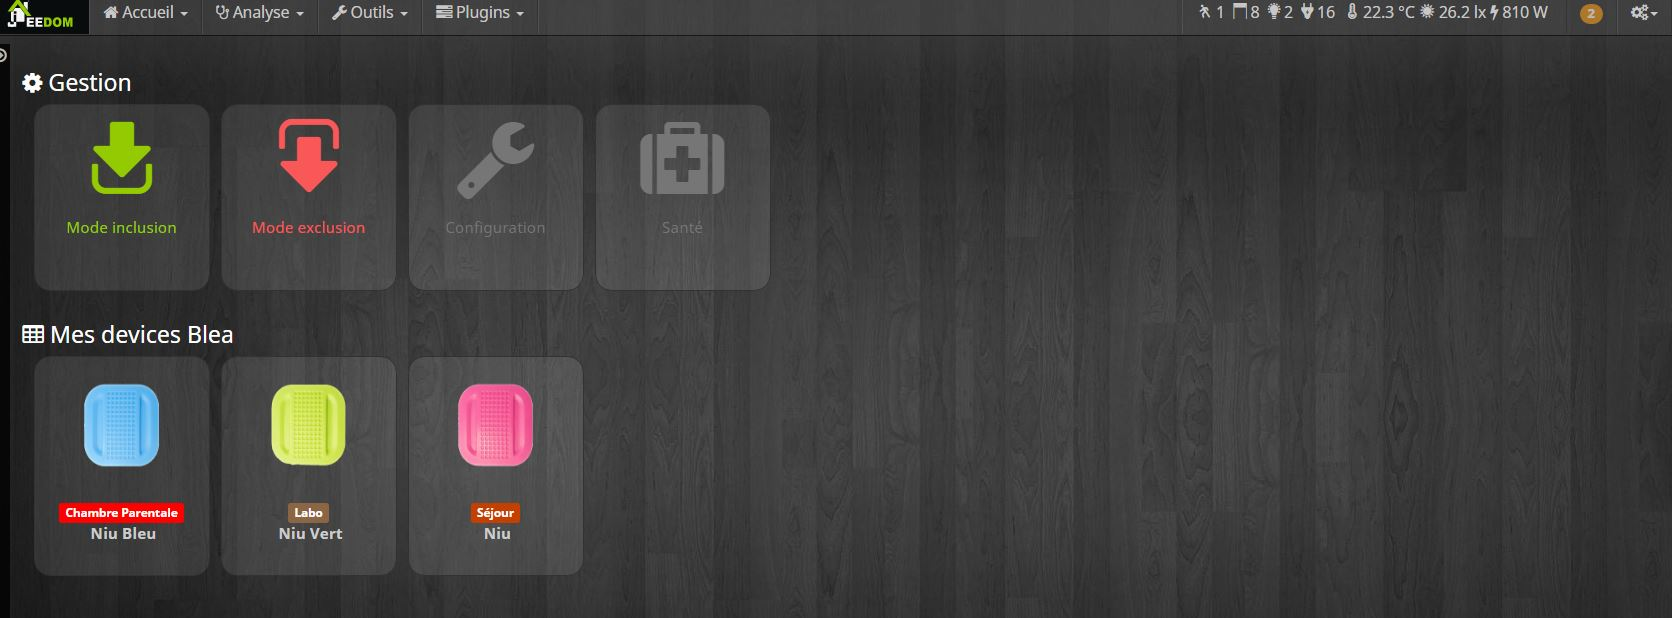
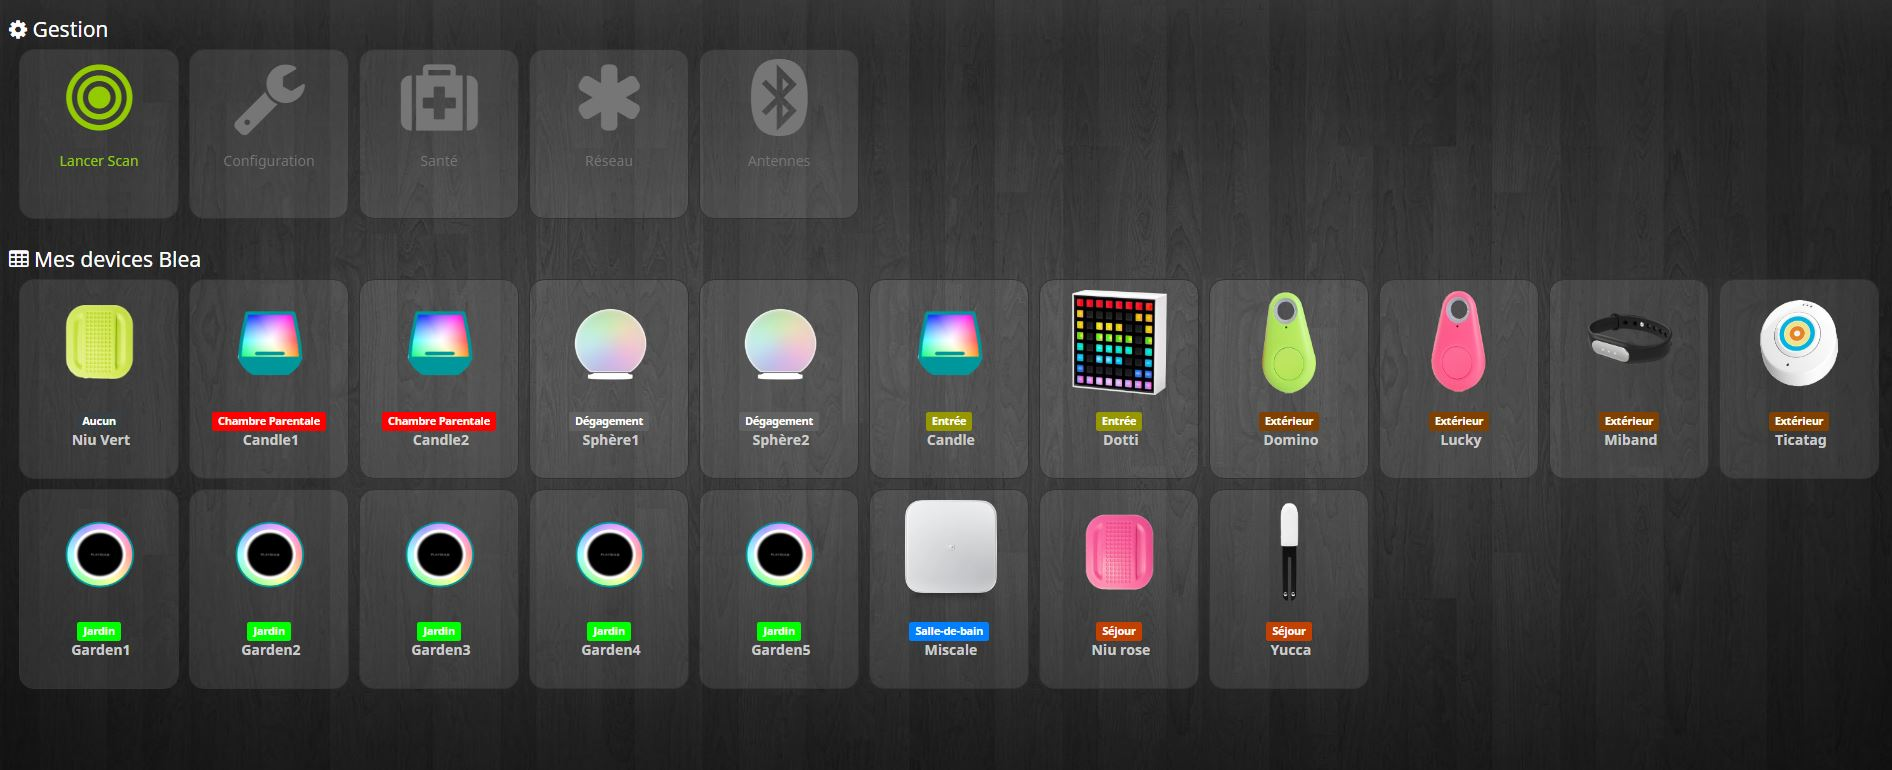
update and prepare stable

diff --git a/desktop/modal/blea.remote.php b/desktop/modal/blea.remote.php
@@ -26,10 +26,10 @@ sendVarToJS('plugin', $id);
 ?>
 <div id='div_bleaRemoteAlert' style="display: none;"></div>
 <div class="row row-overflow">
-	<div class="col-lg-3 col-md-4 col-sm-5 col-xs-5">
+	<div class="col-lg-2 col-md-3 col-sm-4 col-xs-4">
 		<div class="bs-sidebar">
 			<ul id="ul_eqLogic" class="nav nav-list bs-sidenav">
-				<a class="btn btn-default bleaRemoteAction" style="width : 100%;margin-top : 5px;margin-bottom: 5px;" data-action="add"><i class="fa fa-plus-circle"></i> {{Ajouter une Antenne Bluetooth}}</a>
+				<a class="btn btn-default bleaRemoteAction" style="width : 100%;margin-top : 5px;margin-bottom: 5px;" data-action="add"><i class="fa fa-plus-circle"></i> {{Ajouter Antenne}}</a>
 				<li class="filter" style="margin-bottom: 5px;"><input class="filter form-control input-sm" placeholder="{{Rechercher}}" style="width: 100%"/></li>
 				<?php
 foreach ($remotes as $remote) {
@@ -44,14 +44,36 @@ foreach ($remotes as $remote) {
 			</ul>
 		</div>
 	</div>
+	 <div class="col-lg-10 col-md-9 col-sm-8 col-xs-8 remoteThumbnailDisplay" style="border-left: solid 1px #EEE; padding-left: 25px;">
+<legend><i class="fa fa-table"></i>  {{Mes Antennes}}</legend>
 
-	<div class="col-lg-9 col-md-8 col-sm-7 col-xs-7 bleaRemote" style="border-left: solid 1px #EEE; padding-left: 25px;display:none;">
+<div class="eqLogicThumbnailContainer">
+	<div class="cursor bleaRemoteAction pull-left" data-action="add" style="background-color : #ffffff; height : 140px;margin-bottom : 10px;padding : 5px;border-radius: 2px;width : 160px;margin-left : 10px;" >
+     <center>
+      <i class="fa fa-plus-circle" style="font-size : 9em;color:#2980b9;"></i>
+    </center>
+    <span style="font-size : 1.1em;position:relative; top : 15px;word-break: break-all;white-space: pre-wrap;word-wrap: break-word;color:#2980b9"><center>{{Ajouter}}</center></span>
+  </div>
+  <?php
+foreach ($remotes as $remote) {
+	echo '<div class="eqLogicDisplayCard cursor pull-left" data-remote_id="' . $remote->getId() . '" style="background-color : #ffffff; height : 140px;margin-bottom : 10px;padding : 5px;border-radius: 2px;width : 160px;margin-left : 10px;' . $opacity . '" >';
+	echo "<center>";
+	echo '<img class="lazy" src="plugins/blea/3rdparty/antenna.png" height="105" width="95" />';
+	echo "</center>";
+	echo '<span style="font-size : 1.1em;position:relative; top : 15px;word-break: break-all;white-space: pre-wrap;word-wrap: break-word;"><center>' . $remote->getRemoteName() . '</center></span>';
+	echo '</div>';
+}
+?>
+</div>
+</div>
+
+	<div class="col-lg-10 col-md-9 col-sm-8 col-xs-8 bleaRemote" style="border-left: solid 1px #EEE; padding-left: 25px;display:none;">
 		<a class="btn btn-success bleaRemoteAction pull-right" data-action="save"><i class="fa fa-check-circle"></i> {{Sauvegarder}}</a>
 		<a class="btn btn-danger bleaRemoteAction pull-right" data-action="remove"><i class="fa fa-minus-circle"></i> {{Supprimer}}</a>
 
 			<form class="form-horizontal">
 					<fieldset>
-						<legend>{{Général}}</legend>
+						<legend><i class="fa fa-arrow-circle-left returnAction cursor"></i> {{Général}}</legend>
 						<div class="form-group">
 							<label class="col-sm-2 control-label">{{Nom}}</label>
 							<div class="col-sm-3">
@@ -141,11 +163,15 @@ foreach ($remotes as $remote) {
 	</div>
 </div>
 
-
 <script>
 	$('.bleaRemoteAction[data-action=add]').on('click',function(){
 		$('.bleaRemote').show();
+		$('.remoteThumbnailDisplay').hide();
 		$('.bleaRemoteAttr').value('');
+	});
+	
+	$('.eqLogicDisplayCard').on('click',function(){
+		displaybleaRemote($(this).attr('data-remote_id'));
 	});
 
 	function displaybleaRemote(_id){
@@ -168,6 +194,7 @@ foreach ($remotes as $remote) {
 					return;
 				}
 				$('.bleaRemote').show();
+				$('.remoteThumbnailDisplay').hide();
 				$('.bleaRemoteAttr').value('');
 				$('.bleaRemote').setValues(data.result,'.bleaRemoteAttr');
 			}
@@ -202,6 +229,14 @@ foreach ($remotes as $remote) {
 
 	$('.li_bleaRemote').on('click',function(){
 		displaybleaRemote($(this).attr('data-bleaRemote_id'));
+		$('.remoteThumbnailDisplay').hide();
+	});
+	
+	$('.returnAction').on('click',function(){
+		$('.bleaRemote').hide();
+		$('.li_bleaRemote').removeClass('active');
+		setTimeout(function() { $('.remoteThumbnailDisplay').show() }, 100);
+		;
 	});
 
 	$('.bleaRemoteAction[data-action=save]').on('click',function(){
@@ -415,6 +450,10 @@ foreach ($remotes as $remote) {
 						}
 						$('.li_bleaRemote.active').remove();
 						$('.bleaRemote').hide();
+						$('.remoteThumbnailDisplay').show();
+						$('#md_modal').dialog('close');
+						$('#md_modal').dialog({title: "{{Gestion des antennes bluetooth}}"});
+						$('#md_modal').load('index.php?v=d&plugin=blea&modal=blea.remote&id=blea').dialog('open');
 					}
 				});
 			}

diff --git a/desktop/modal/health.php b/desktop/modal/health.php
@@ -82,13 +82,17 @@ foreach ($eqLogics as $eqLogic) {
 			$signalLevel = 'success';
 			if ($rssiantenna <= -150) {
 				$signalLevel = 'none';
-			}elseif ($rssiantenna <= -91) {
+			}elseif ($rssiantenna <= -92) {
 				$signalLevel = 'danger';
-			} elseif ($rssiantenna <= -81) {
+			} elseif ($rssiantenna <= -86) {
 				$signalLevel = 'warning';
+			} elseif ($rssiantenna <= -81) {
+				$signalLevel = 'yellow';
 			}
-			if ($signalLevel!='none'){
-				$rssi = $rssi . '<span class="label label-'.$signalLevel.'" style="font-size : 0.9em;cursor:default;padding:0px 5px;">' . $rssiantenna .'dBm (' . ucfirst($antennaname) .')</span><br>';
+			if ($signalLevel!='none' && $signalLevel!='yellow'){
+				$rssi = $rssi . '<span class="label label-'.$signalLevel.'" style="font-size : 0.9em;cursor:default;padding:0px 5px;">' . $rssiantenna .'dBm (' . ucfirst($antennaname) .')</span></br>';
+			} else if ($signalLevel=='yellow'){
+				$rssi = $rssi . '<span class="label" style="font-size : 0.9em;cursor:default;padding:0px 5px;background-color:#cccc00">' . $rssiantenna .'dBm (' . ucfirst($antennaname) .')</span></br>';
 			}
 		}	
 	}
@@ -97,15 +101,20 @@ foreach ($eqLogics as $eqLogic) {
 		$rssiantenna = $rssicmd->execCmd();
 		$antennaname = 'local';
 		$signalLevel = 'success';
-			if ($rssiantenna <= -100) {
+			if ($rssiantenna <= -150) {
 				$signalLevel = 'none';
-			}elseif ($rssiantenna <= -91) {
+			}elseif ($rssiantenna <= -92) {
 				$signalLevel = 'danger';
-			} elseif ($rssiantenna <= -81) {
+			} elseif ($rssiantenna <= -86) {
 				$signalLevel = 'warning';
+			} elseif ($rssiantenna <= -81) {
+				$signalLevel = 'yellow';
 			}
-		if ($signalLevel!='none'){
+			
+		if ($signalLevel!='none' && $signalLevel!='yellow'){
 			$rssi = $rssi . '<span class="label label-'.$signalLevel.'" style="font-size : 0.9em;cursor:default;padding:0px 5px;">' . $rssiantenna .'dBm (' . ucfirst($antennaname) .')</span>';
+		} else if ($signalLevel=='yellow'){
+			$rssi = $rssi . '<span class="label" style="font-size : 0.9em;cursor:default;padding:0px 5px;background-color:#cccc00">' . $rssiantenna .'dBm (' . ucfirst($antennaname) .')</span>';
 		}
 	}
 	$antenna = $eqLogic->getConfiguration('antenna','local');

diff --git a/desktop/php/blea.php b/desktop/php/blea.php
@@ -74,13 +74,6 @@ if (config::byKey('include_mode', 'blea', 0) == 1) {
 	</center>
 	<span style="font-size : 1.1em;position:relative; top : 15px;word-break: break-all;white-space: pre-wrap;word-wrap: break-word;color:#767676"><center>{{Antennes}}</center></span>
 	</div>
-	<div class="cursor" id="bt_advancedblea" style="background-color : #ffffff; height : 120px;margin-bottom : 10px;padding : 5px;border-radius: 2px;width : 160px;margin-left : 10px;" >
-	<center>
-	<i class="fa fa-cogs" style="font-size : 6em;color:#767676;"></i>
-	</center>
-	<span style="font-size : 1.1em;position:relative; top : 15px;word-break: break-all;white-space: pre-wrap;word-wrap: break-word;color:#767676"><center>{{Réglages}}</center></span>
-	</div>
-	
 </div>
 <legend><i class="fa fa-table"></i>  {{Mes devices Blea}}</legend>
 <div class="eqLogicThumbnailContainer">

diff --git a/desktop/modal/blea.graph.php b/desktop/modal/blea.graph.php
@@ -174,10 +174,12 @@ function load_graph(){
 				color = 'green';
 				if (link.data.signal <= -150) {
 					color = 'grey';
-				} else if (link.data.signal <= -91) {
+				} else if (link.data.signal <= -92) {
 					color = 'red';
-				} else if (link.data.signal <= -81) {
+				} else if (link.data.signal <= -86) {
 					color = 'orange';
+				} else if (link.data.signal <= -81) {
+					color = 'yellow';
 				}
                 if (link.data.isdash == 1) {
                     dashvalue = '5, 2';

diff --git a/resources/blead/devices/playbulb.py b/resources/blead/devices/playbulb.py
@@ -23,6 +23,7 @@ class Playbulb():
 						'BTL300_v6': 'candle6',
 						'BTL300': 'candle6',
 						'BTL301W_v5':'sphere',
+						'BTL301W':'sphere',
 						'BTL301WM_V1.7' : 'sphere17',
 						'BTL400_V3.7':'garden',
 						'BTL400':'garden'}
@@ -50,7 +51,6 @@ class Playbulb():
 			try:
 				if char.supportsRead():
 					value = char.read()
-					logging.debug(str(value))
 					if value and value[0:3] == 'BTL' and len(value)>6:
 						break
 			except Exception,e:

diff --git a/core/class/blea.class.php b/core/class/blea.class.php
@@ -246,7 +246,7 @@ class blea extends eqLogic {
 		$last = $remoteObject->getConfiguration('lastupdate','0');
 		if ($last != '0' and time() - strtotime($last)<65){
 			blea::stopremote($_remoteId);
-			time.sleep(5);
+			sleep(5);
 		}
 		$user=$remoteObject->getConfiguration('remoteUser');
 		$device=$remoteObject->getConfiguration('remoteDevice');

diff --git a/plugin_info/install.php b/plugin_info/install.php
@@ -22,7 +22,7 @@ function blea_install() {
 	$sql = file_get_contents(dirname(__FILE__) . '/install.sql');
 	DB::Prepare($sql, array(), DB::FETCH_TYPE_ROW);
 	foreach (blea::byType('blea') as $blea) {
-		$jeelink->save();
+		$blea->save();
 	}
 }
 
